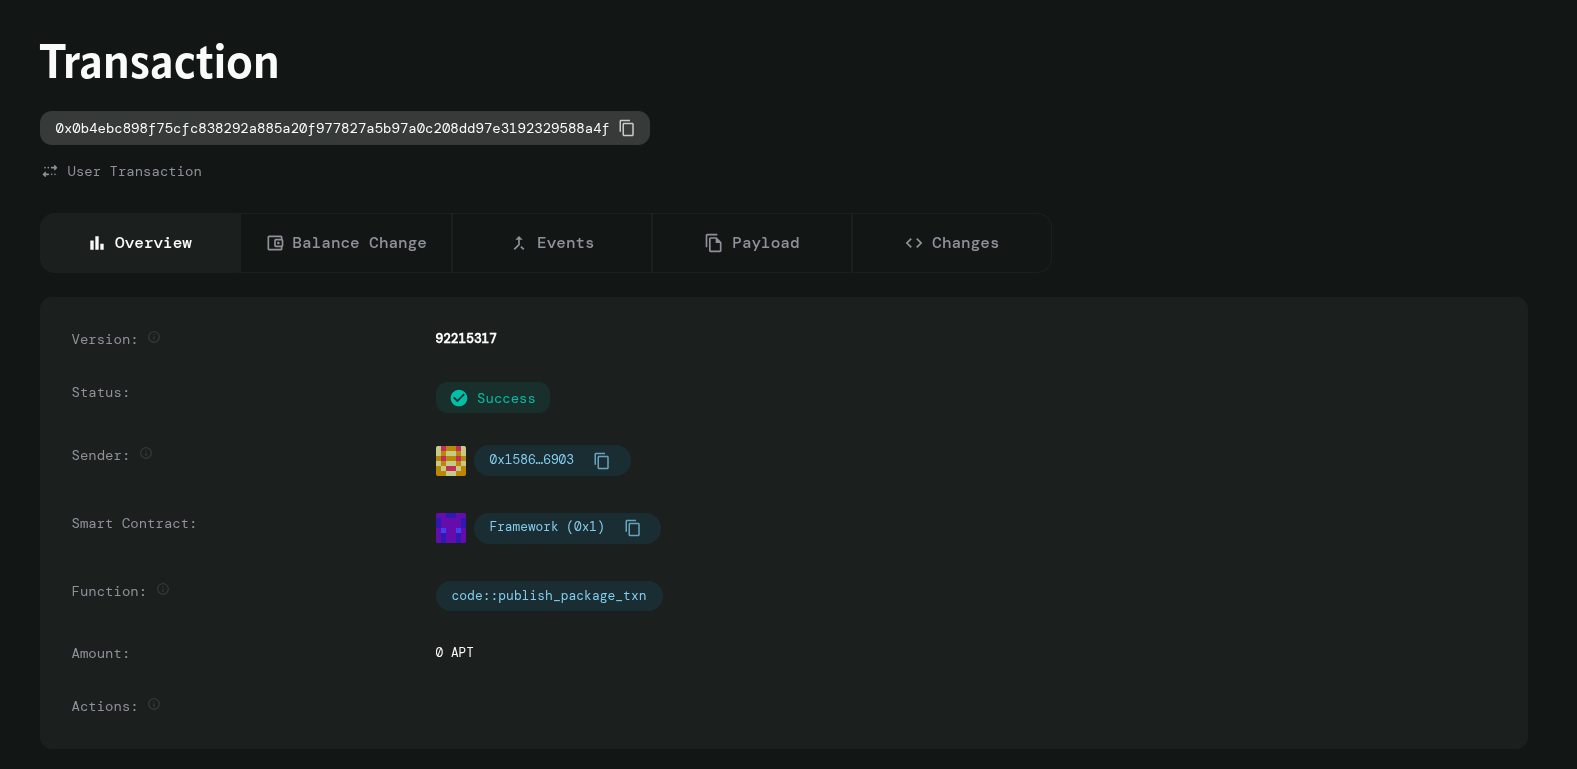
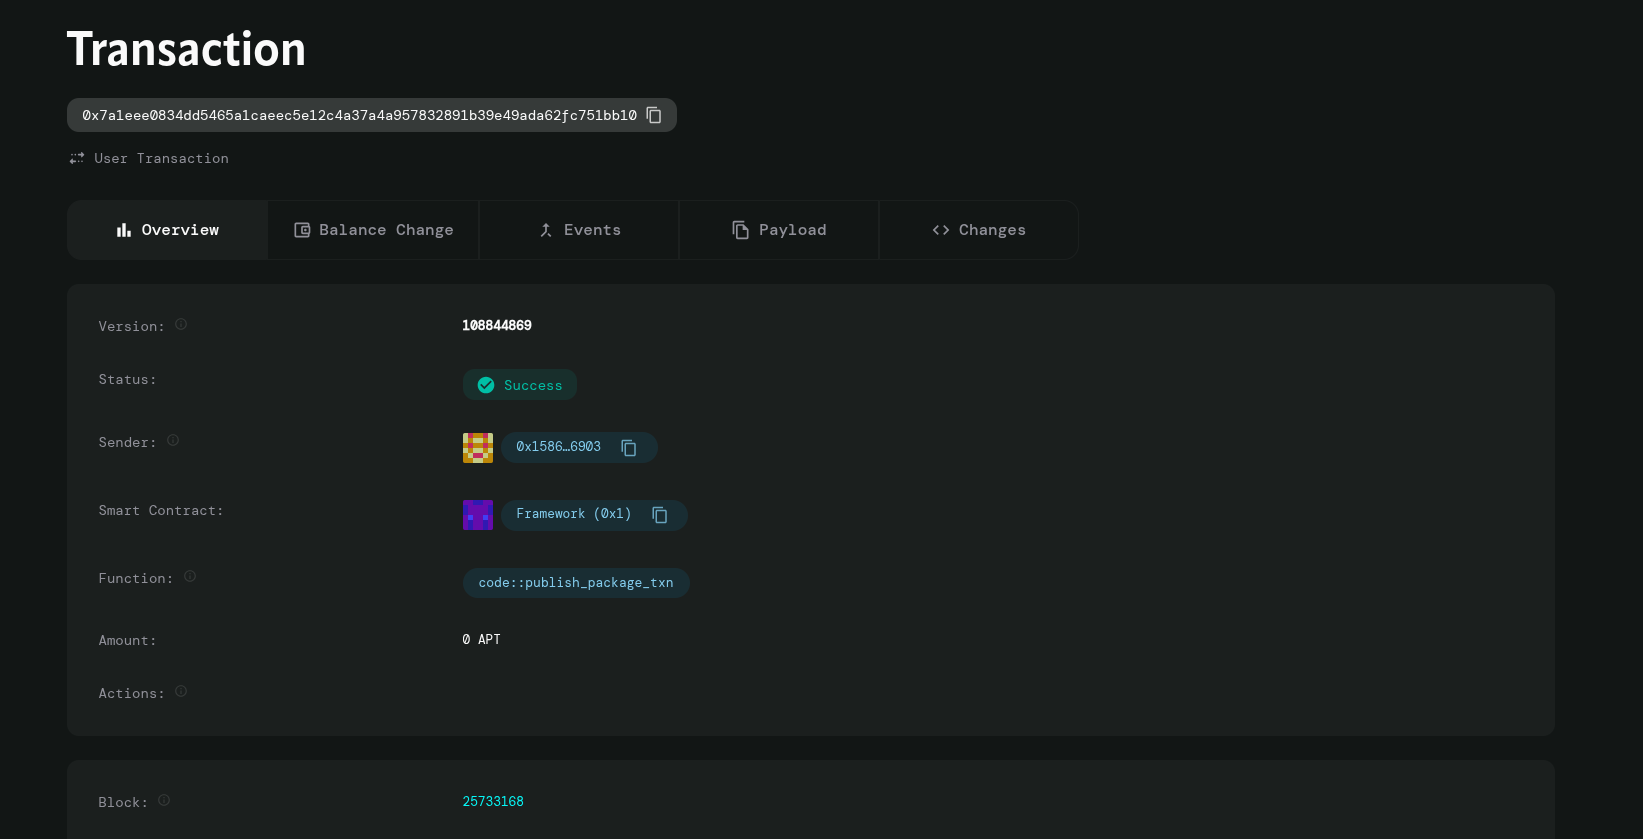
version update, transaction details update

diff --git a/README.md b/README.md
@@ -214,6 +214,10 @@ We welcome contributions from the community! Here's how you can help:
 
 ## Contract Details
 
+- Transaction details <br>
+[0x7a1eee0834dd5465a1caeec5e12c4a37a4a957832891b39e49ada62fc751bb10](https://explorer.aptoslabs.com/txn/0x7a1eee0834dd5465a1caeec5e12c4a37a4a957832891b39e49ada62fc751bb10?network=devnet)
+
+
 ![InvestmentDAO](transaction.png)
 
 ## 📄 License
@@ -223,3 +227,5 @@ This project is licensed under the MIT License - see the [LICENSE](LICENSE) file
 **Built with ❤ by the InvestmentDAO Community**
 
 *Empowering communities to make better investment decisions together*
+
+[def]: 0x7a1eee0834dd5465a1caeec5e12c4a37a4a957832891b39e49ada62fc751bb10
